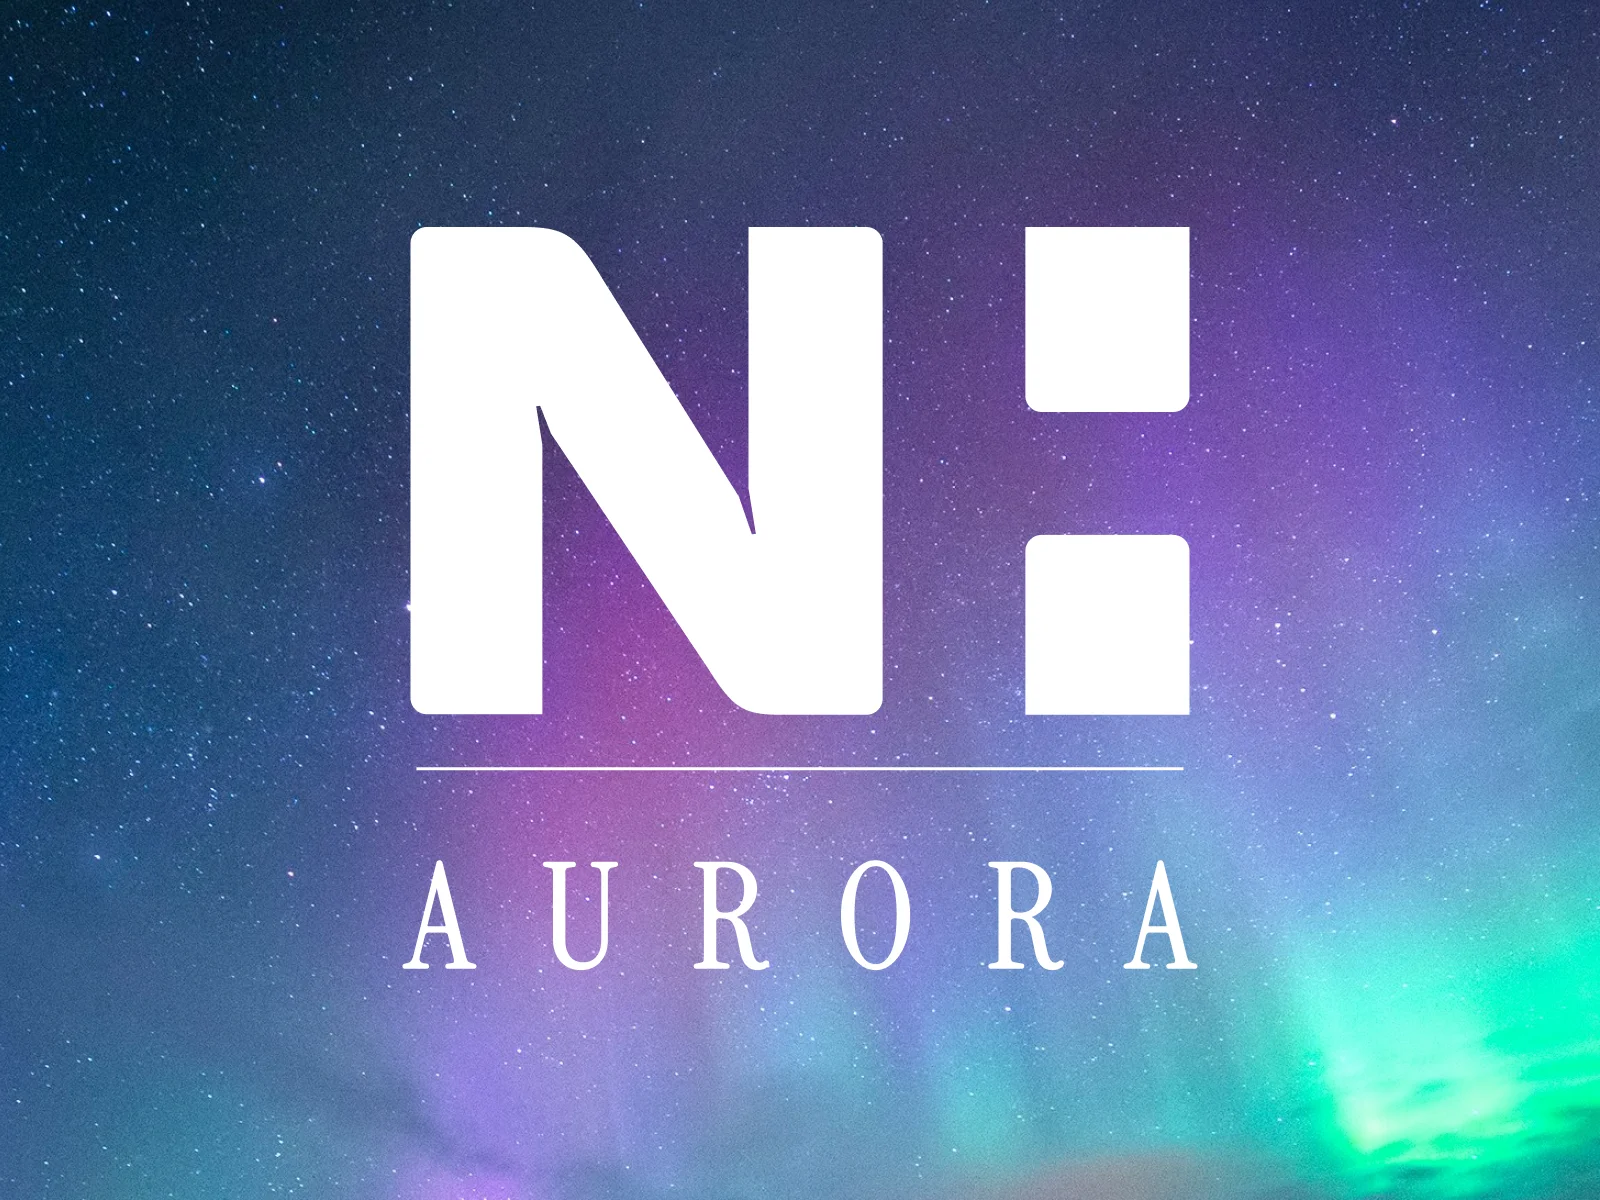
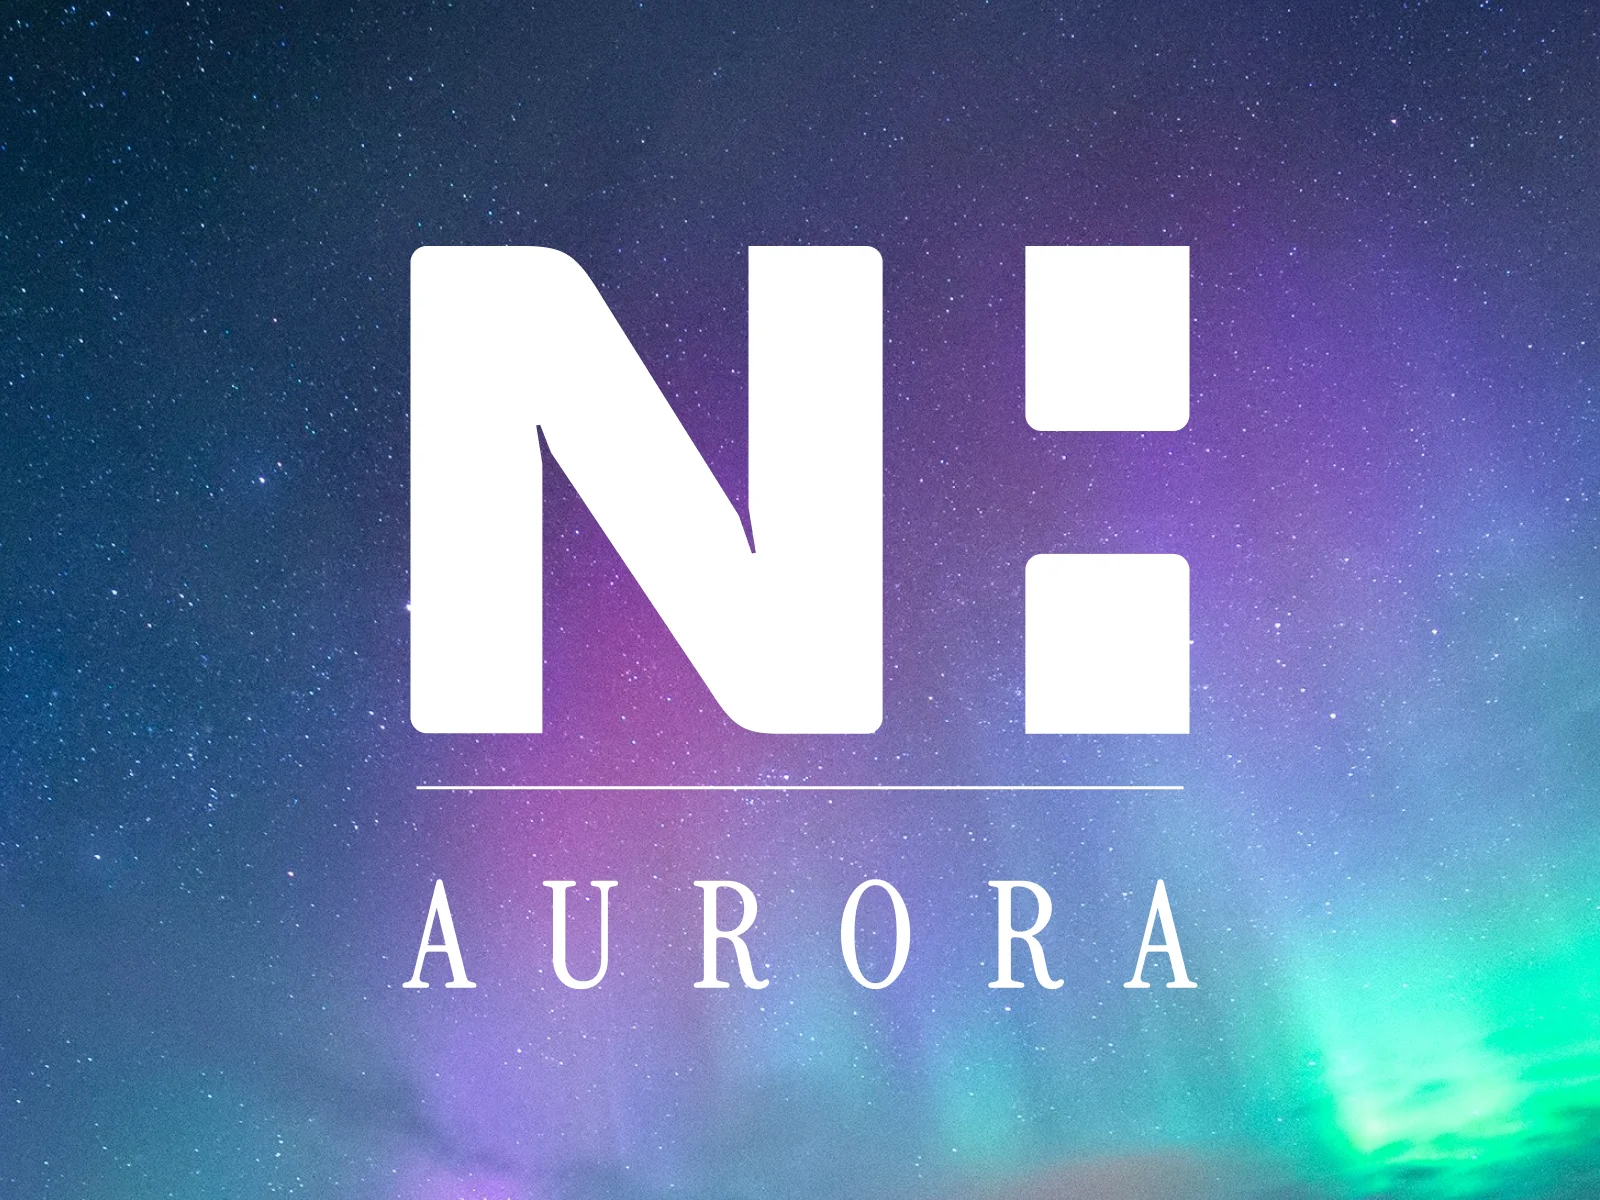
Aurora: separate the card cover from the lightbox carousel
New updated cover art dropped in, plus a structural change: StudioGallery
gets an optional `cover` field (game-ui-galleries.ts), so a gallery's card
thumbnail no longer has to be images[0] doing double duty as a lightbox
slide too. Every other gallery keeps its old behavior unchanged (falls
back to images[0]) — only Aurora sets `cover` explicitly, since Derik
doesn't want the title graphic navigable in the carousel. Verified live:
card badge now reads 4 (was 5), lightbox opens straight to 1/4.

diff --git a/lib/case-study-galleries.ts b/lib/case-study-galleries.ts
@@ -98,18 +98,24 @@ export const nutrienBonsaiGalleries: StudioGallery[] = [
 // of the aspect-4/3 preview frame (the old 1920x1049 slide lost ~260px per
 // side to object-cover). Derik authored a proper 1600x1200 cover in its
 // place, same filename, so no src changes were needed here.
+//
+// Cover pulled out of `images` entirely, same day, second revision: it's a
+// title/cover graphic, not a real content shot, so Derik doesn't want it
+// navigable as a lightbox slide. `cover` (StudioGallery, game-ui-galleries.ts)
+// is what the card thumbnail renders; the carousel now opens straight into
+// the 4 real images.
 export const novantGallery: StudioGallery[] = [
   {
     id: "novant-health",
     studio: "Iconography & Physician Finder",
     description:
       "Not the component library itself — the icon system I redefined for Aurora, the research behind those marks, and the physician-finder flow built on top of it.",
+    cover: {
+      src: "/case-studies/novant-health-aurora/1-novant-health-aurora-iconography-cover.webp",
+      alt: "Aurora icon system, cover",
+      caption: "Aurora icon system — cover",
+    },
     images: [
-      {
-        src: "/case-studies/novant-health-aurora/1-novant-health-aurora-iconography-cover.webp",
-        alt: "Aurora icon system, cover",
-        caption: "Aurora icon system — cover",
-      },
       {
         src: "/case-studies/novant-health-aurora/2-iconography-process-c.webp",
         alt: "Aurora icon system design process",

diff --git a/lib/game-ui-galleries.ts b/lib/game-ui-galleries.ts
@@ -21,6 +21,11 @@ export type StudioGallery = {
   // "sideBySide" — images shown directly, no preview card; still opens the
   // same Lightbox. Use for small, fully-known image sets (see State Farm).
   layout?: "stack" | "sideBySide";
+  // Card thumbnail only — omit to fall back to images[0] (the default for
+  // every other gallery). Set this when the cover shouldn't also appear as
+  // a lightbox slide (Aurora, 2026-08-05): a title/cover graphic that isn't
+  // one of the real content shots.
+  cover?: GalleryImage;
   images: GalleryImage[];
 };
 

diff --git a/components/game-ui-galleries.tsx b/components/game-ui-galleries.tsx
@@ -137,7 +137,7 @@ function GalleryStack({
   gallery: StudioGallery;
   onOpen: () => void;
 }) {
-  const [cover] = gallery.images;
+  const cover = gallery.cover ?? gallery.images[0];
   const ref = useRef<HTMLButtonElement>(null);
 
   // Same hover grammar as the case-study rows: the title blinks and scrambles
